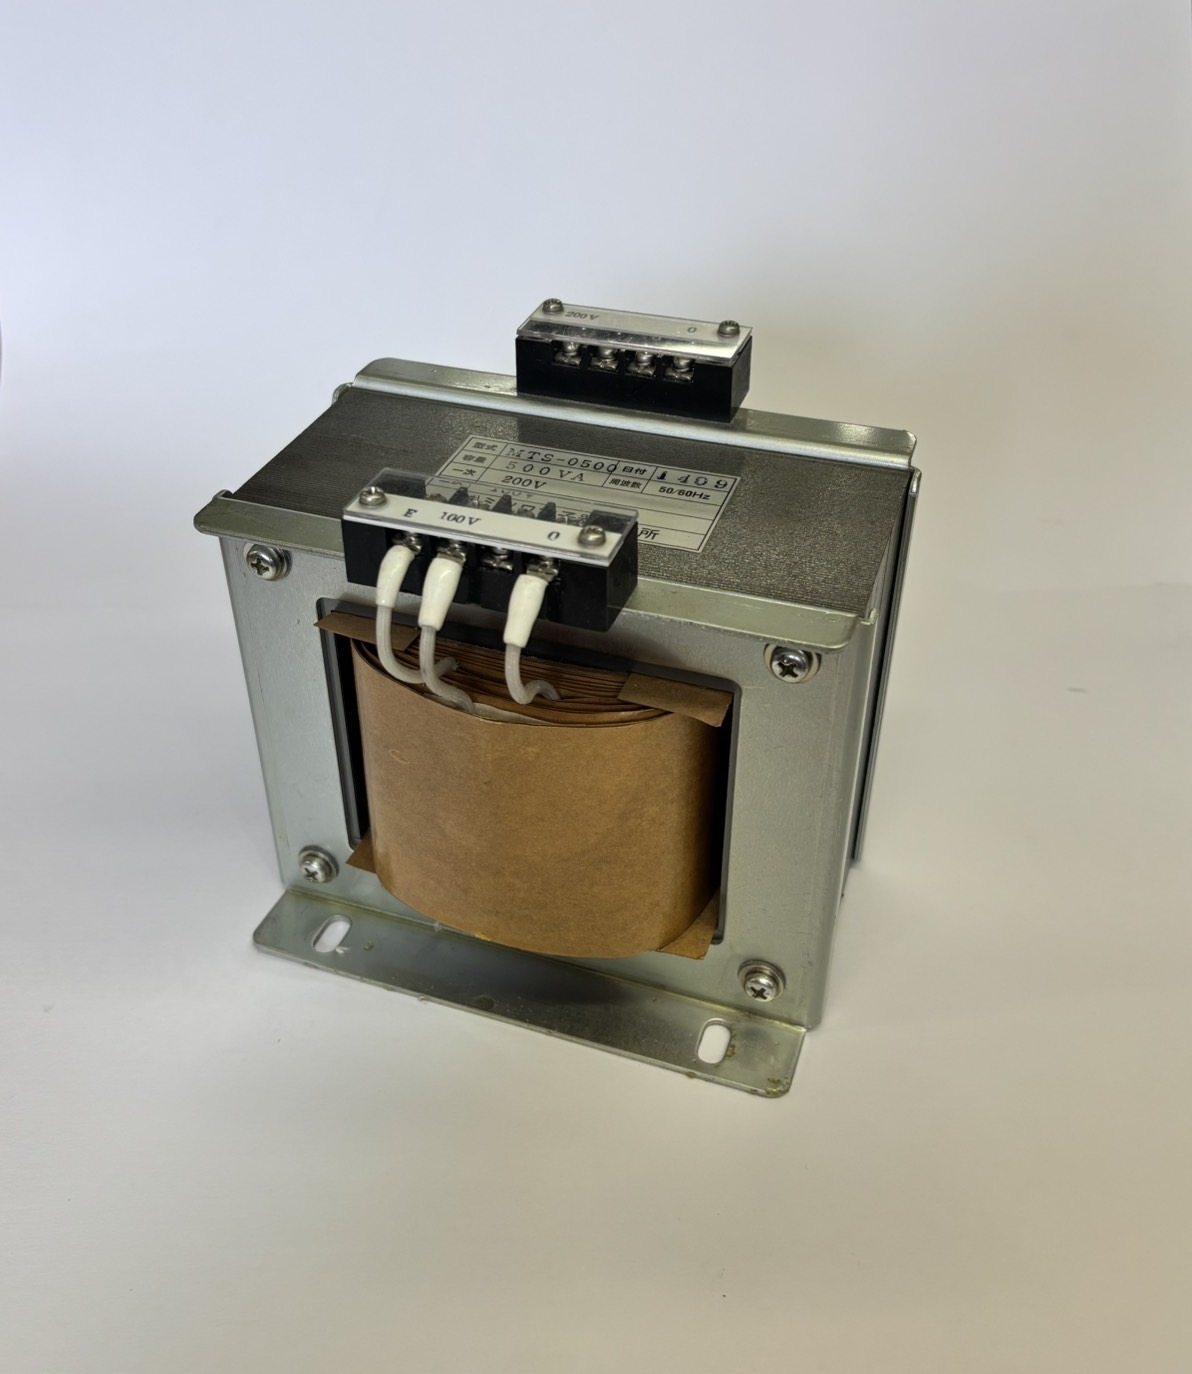
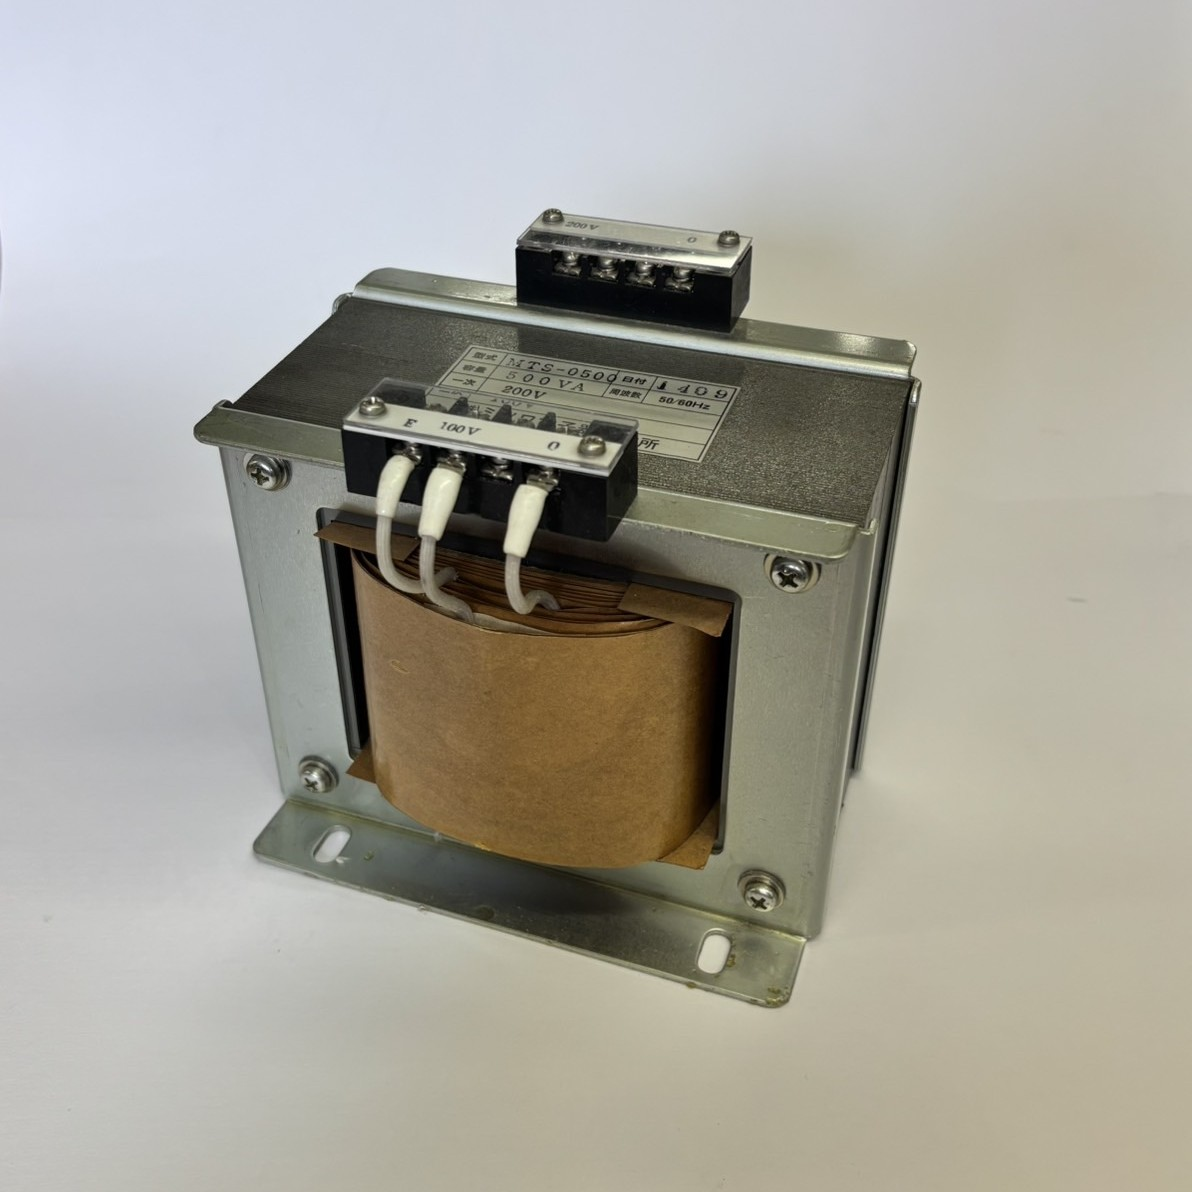
製品画像を全面更新・アスペクト比を製品カテゴリ別に最適化
ドロッパー電源: 全製品の画像を差し替え、アスペクト比1:1（A-15Bは5:4）
変圧器: EI型3種を1:1、OI型・高周波を4:5に設定
全製品画像にobject-fit: containを適用し製品全体を表示

Changed region(s): [[0.1552, 0.1552, 0.776, 0.5587], [0.1862, 0.5277, 0.745, 0.8691], [0.5898, 0.5277, 0.6208, 0.5587]]

diff --git a/src/partials/product-introduction-drop.html b/src/partials/product-introduction-drop.html
@@ -7,7 +7,7 @@
   <div class="row gy-4 justify-content-center">
     <div class="col-md-4">
       <div class="card card-modern h-100">
-        <img src="/products/dropper/MPS-05/img.jpeg" class="card-img-top" alt="MPS-05 ドロッパー電源" loading="lazy">
+        <img src="/products/dropper/MPS-05/img.jpg" class="card-img-top" alt="MPS-05 ドロッパー電源" loading="lazy">
         <div class="card-body d-flex flex-column">
           <h5 class="card-title text-center">MPS-05</h5>
           <div class="btn-row">
@@ -39,7 +39,7 @@
     </div>
     <div class="col-md-4">
       <div class="card card-modern h-100">
-        <img src="/products/dropper/MPS-15/img.jpeg" class="card-img-top" alt="MPS-15 ドロッパー電源" loading="lazy">
+        <img src="/products/dropper/MPS-15/img.jpg" class="card-img-top" alt="MPS-15 ドロッパー電源" loading="lazy">
         <div class="card-body d-flex flex-column">
           <h5 class="card-title text-center">MPS-15</h5>
           <div class="btn-row">
@@ -71,7 +71,7 @@
     </div>
     <div class="col-md-4">
       <div class="card card-modern h-100">
-        <img src="/products/dropper/MPS-50/img.jpeg" class="card-img-top" alt="MPS-50 ドロッパー電源" loading="lazy">
+        <img src="/products/dropper/MPS-50/img.jpg" class="card-img-top" alt="MPS-50 ドロッパー電源" loading="lazy">
         <div class="card-body d-flex flex-column">
           <h5 class="card-title text-center">MPS-50</h5>
           <div class="btn-row">
@@ -91,7 +91,7 @@
   <div class="row gy-4 justify-content-center">
     <div class="col-md-4">
       <div class="card card-modern h-100">
-        <img src="/products/dropper/A-15B/img.JPG" class="card-img-top" alt="A-15B ドロッパー電源" loading="lazy">
+        <img src="/products/dropper/A-15B/img.JPG" class="card-img-top" style="aspect-ratio: 5/4" alt="A-15B ドロッパー電源" loading="lazy">
         <div class="card-body d-flex flex-column">
           <h5 class="card-title text-center">A-15B</h5>
           <div class="btn-row">

diff --git a/src/partials/product-introduction-trans.html b/src/partials/product-introduction-trans.html
@@ -1,6 +1,6 @@
 <!-- ######## 変圧器 ######## -->
-<section class="container pb-4">
-  <h3 id="transformers">変圧器</h3>
+<section id="transformers" class="container pb-4">
+  <h3>変圧器</h3>
   <p>1Wから1kWまで、多様なニーズに応える高品質トランス</p>
 
   <h4>EI型変圧器</h4>
@@ -8,7 +8,7 @@
     <!-- 基板取付型トランス(ピンタイプ) -->
     <div class="col-md-4">
       <div class="card card-modern h-100">
-        <img src="/products/trans/eiPin/img.jpg" class="card-img-top" alt="基板取付型トランス" loading="lazy">
+        <img src="/products/trans/eiPin/img.jpg" class="card-img-top card-img-square" alt="基板取付型トランス" loading="lazy">
         <div class="card-body d-flex flex-column">
           <h5 class="card-title text-center">基板取付型トランス<br>(ピンタイプ)</h5>
           <div class="btn-row">
@@ -22,7 +22,7 @@
     <!-- 小型絶縁トランス -->
     <div class="col-md-4">
       <div class="card card-modern h-100">
-        <img src="/products/trans/eiSmall/img.jpeg" class="card-img-top" alt="小型絶縁トランス" loading="lazy">
+        <img src="/products/trans/eiSmall/img.jpeg" class="card-img-top card-img-square" alt="小型絶縁トランス" loading="lazy">
         <div class="card-body d-flex flex-column">
           <h5 class="card-title text-center">小型絶縁トランス</h5>
           <div class="btn-row">
@@ -36,7 +36,7 @@
     <!-- 端子台付絶縁トランス -->
     <div class="col-md-4">
       <div class="card card-modern h-100">
-        <img src="/products/trans/eiTerminal/img.jpeg" class="card-img-top" alt="端子台付絶縁トランス" loading="lazy">
+        <img src="/products/trans/eiTerminal/img.jpeg" class="card-img-top card-img-square" alt="端子台付絶縁トランス" loading="lazy">
         <div class="card-body d-flex flex-column">
           <h5 class="card-title text-center">端子台付絶縁トランス</h5>
           <div class="btn-row">

diff --git a/src/css/common.css b/src/css/common.css
@@ -356,6 +356,23 @@ section {
   transition: transform 0.4s ease;
 }
 
+#transformers .card-modern .card-img-top {
+  height: auto;
+  aspect-ratio: 4 / 5;
+  object-fit: contain;
+  background-color: var(--color-bg-light);
+}
+
+#transformers .card-modern .card-img-square {
+  aspect-ratio: 1 / 1;
+}
+
+#droppers .card-modern .card-img-top {
+  height: auto;
+  aspect-ratio: 1 / 1;
+  object-fit: contain;
+  background-color: var(--color-bg-light);
+}
 
 .btn-row {
   display: flex;
